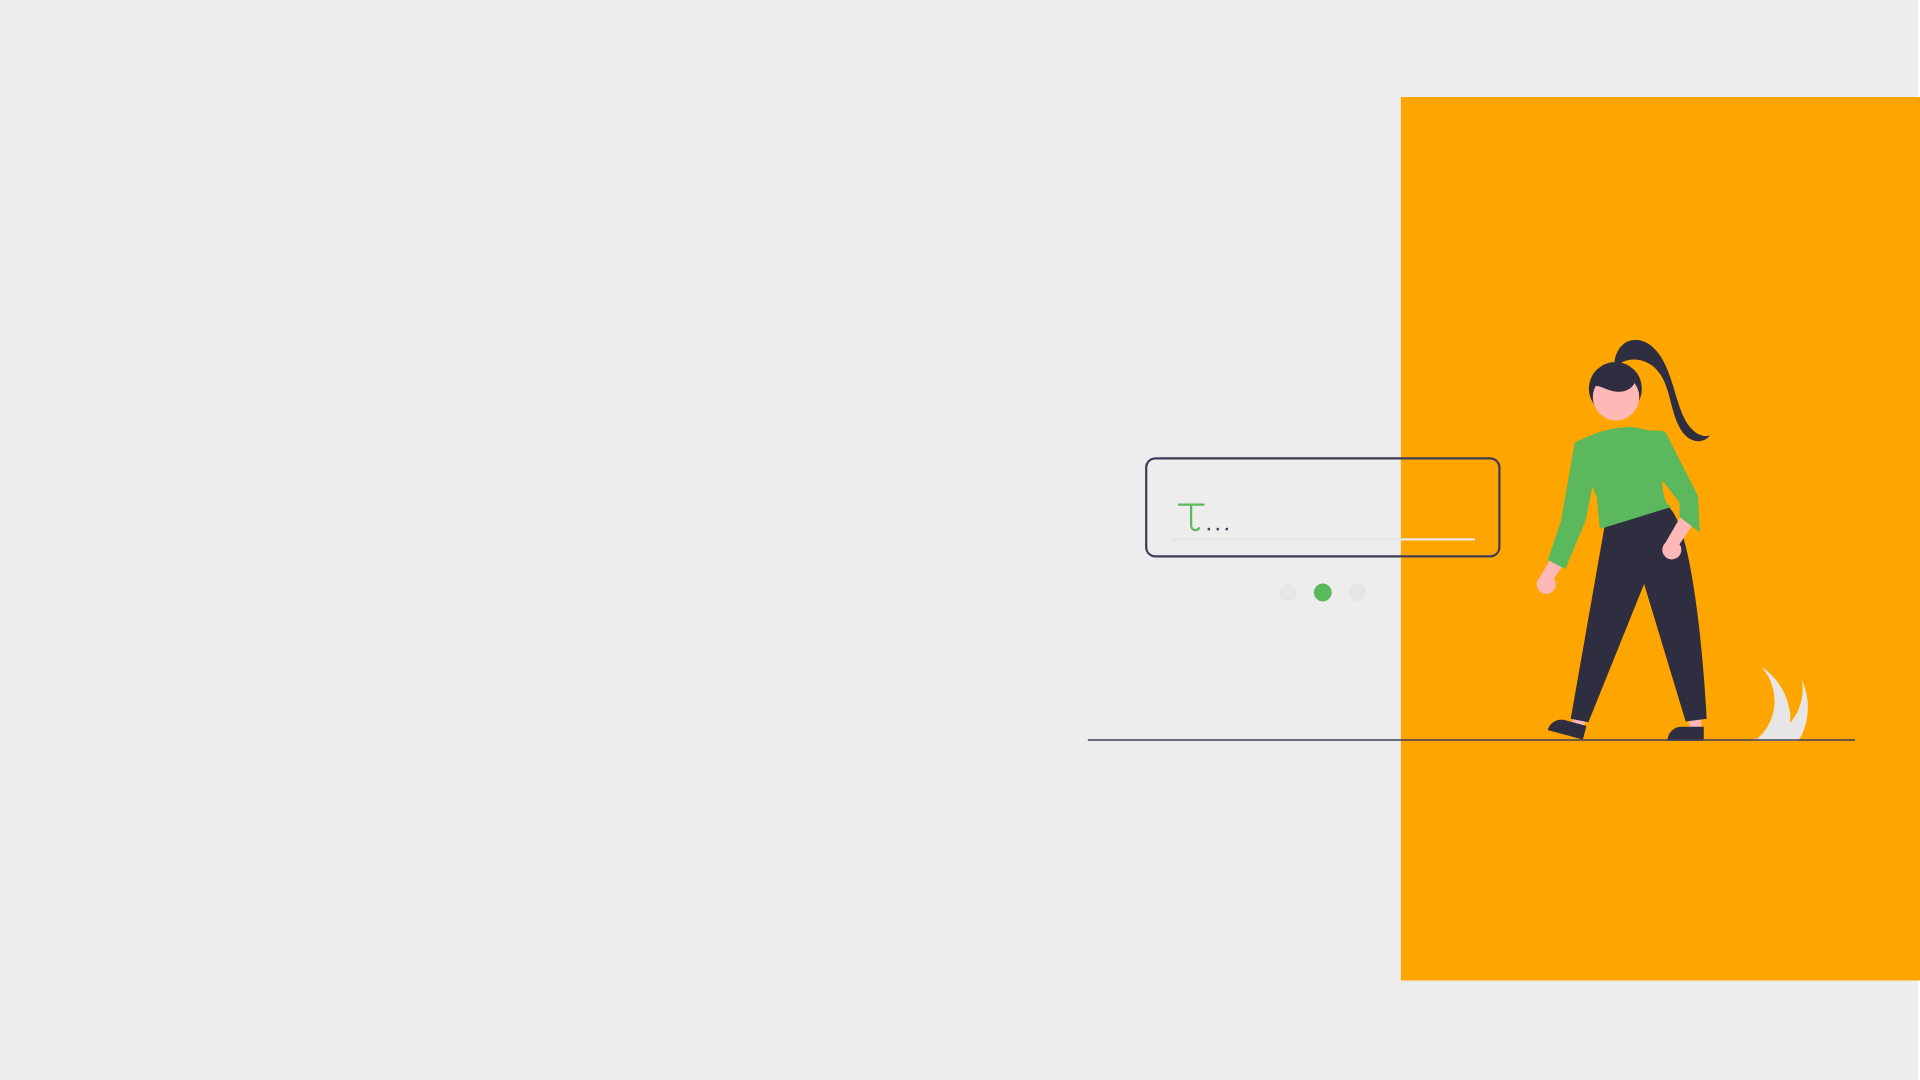
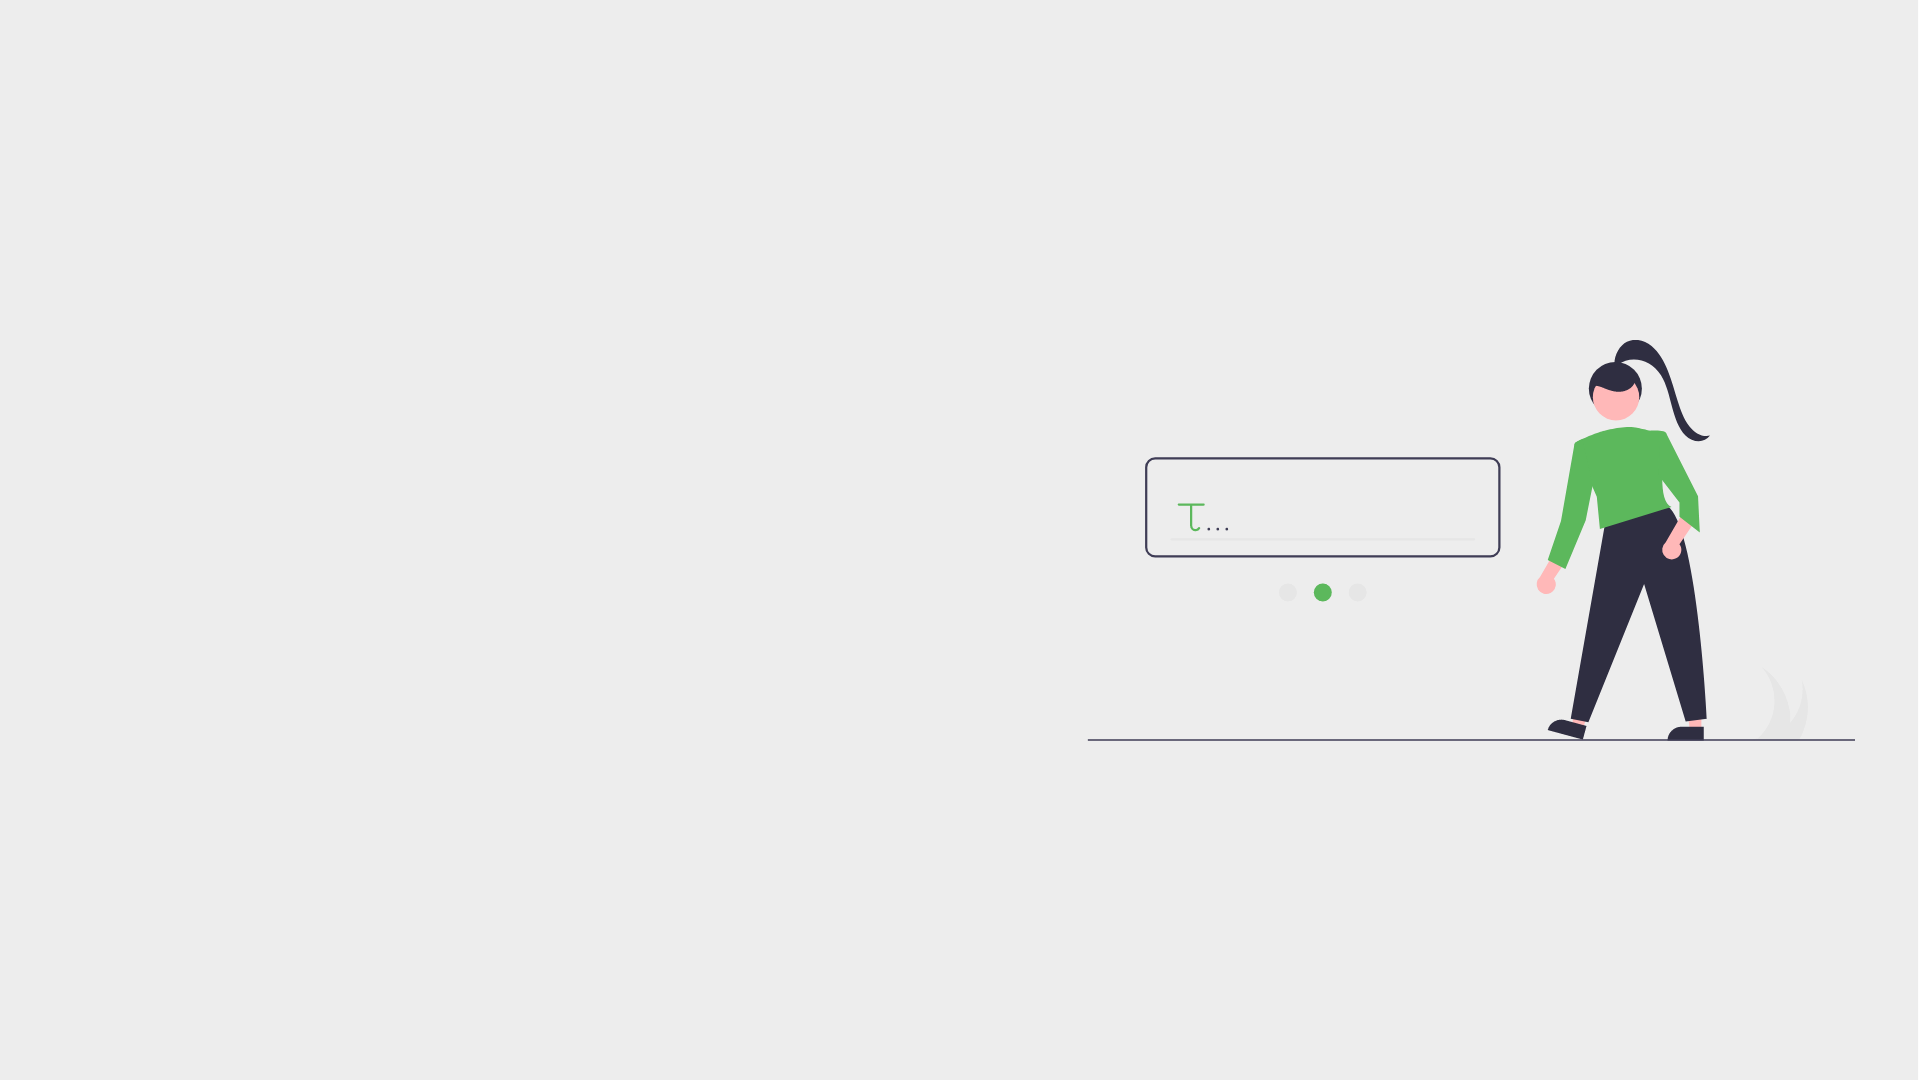
ganti bg dan add logut

Changed region(s): [[0.7188, 0.0917, 1.0, 0.9167]]

diff --git a/guru/index.php b/guru/index.php
@@ -68,7 +68,9 @@
 <body>
     <nav class="navbar fixed-top navbar-expand-lg navbar-dark bg-success">
         <a class="navbar-brand" href="landing.php">e-Rapor</a>
-
+        <div class="container-fluid justify-content-md-end" id="logout">
+            <button class="btn btn-warning" type="button">LOGOUT</button>
+        </div>
         <a class="navbar-toggler collapsed border-0" type="button" data-toggle="collapse" data-target="#navbarSupportedContent">
             <span> </span>
             <span> </span>

diff --git a/guru/nilai.php b/guru/nilai.php
@@ -58,7 +58,7 @@
             padding-top: 55px;
             width: 250px;
             max-width: 250px;
-            height: 100vh;
+            height: 279vh;
             background: #f0ad4e;
             color: #FFF;
             transition: all 0.3s;
@@ -109,7 +109,7 @@
         }
 
         #sidebar ul li a {
-            padding: 10px;
+            padding: 20px;
             font-size: 1.1em;
             display: block;
             color: black;
